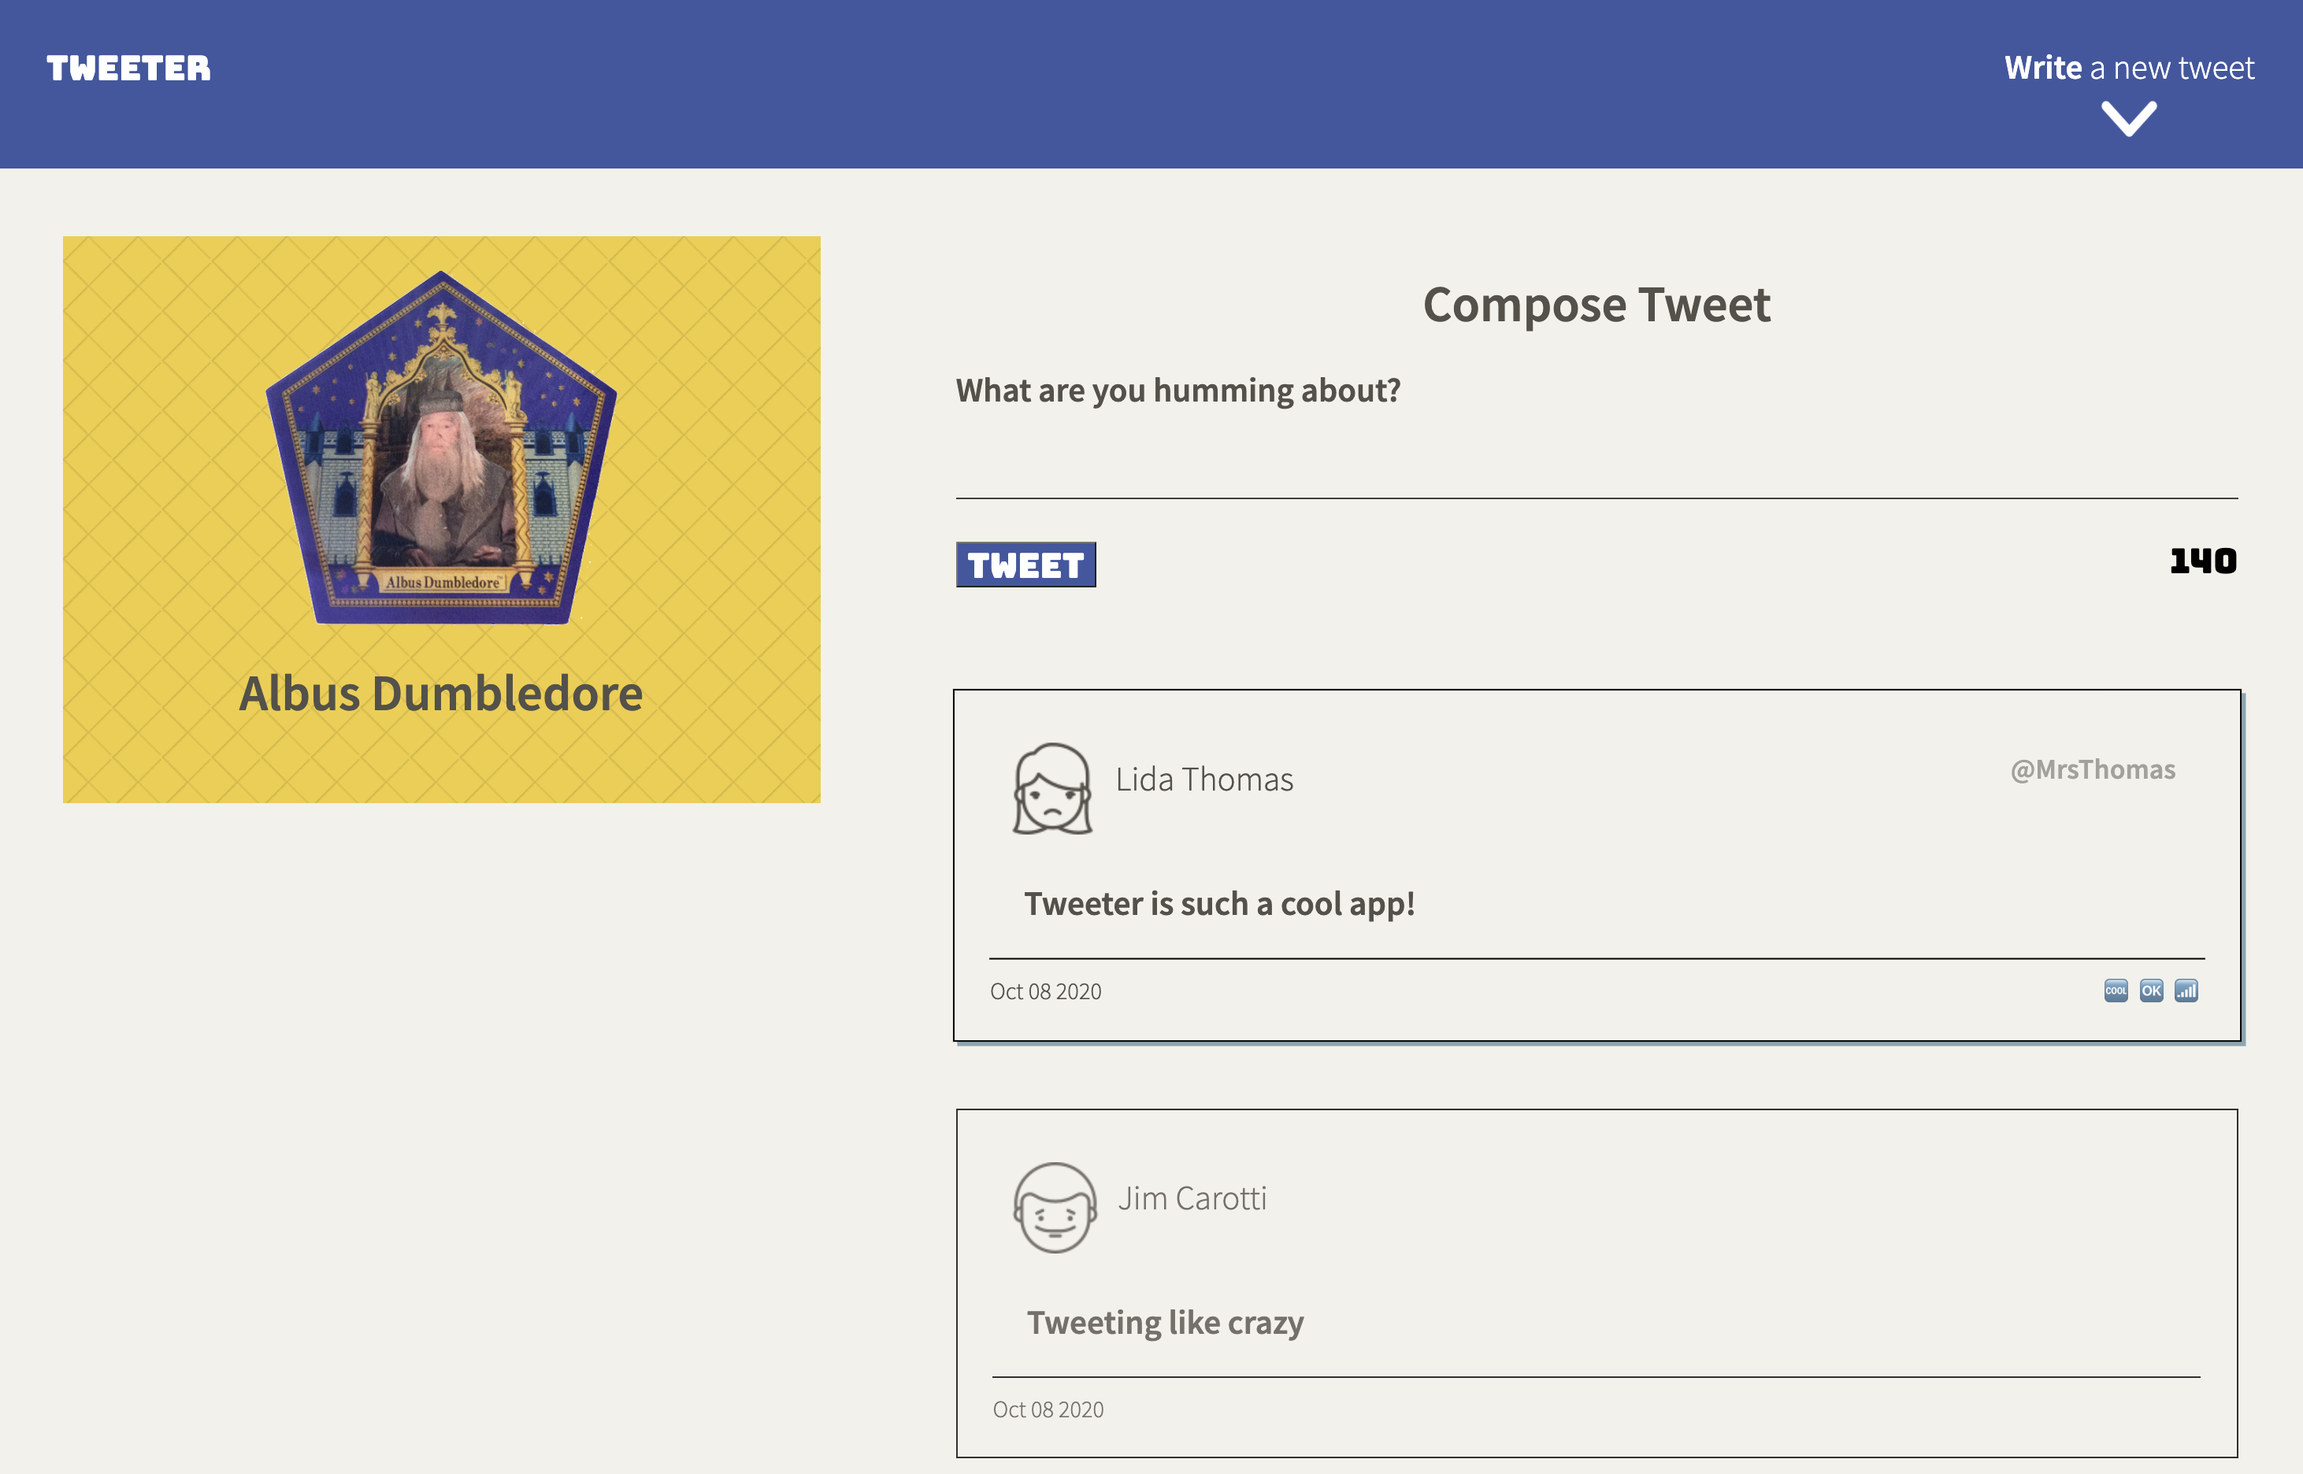
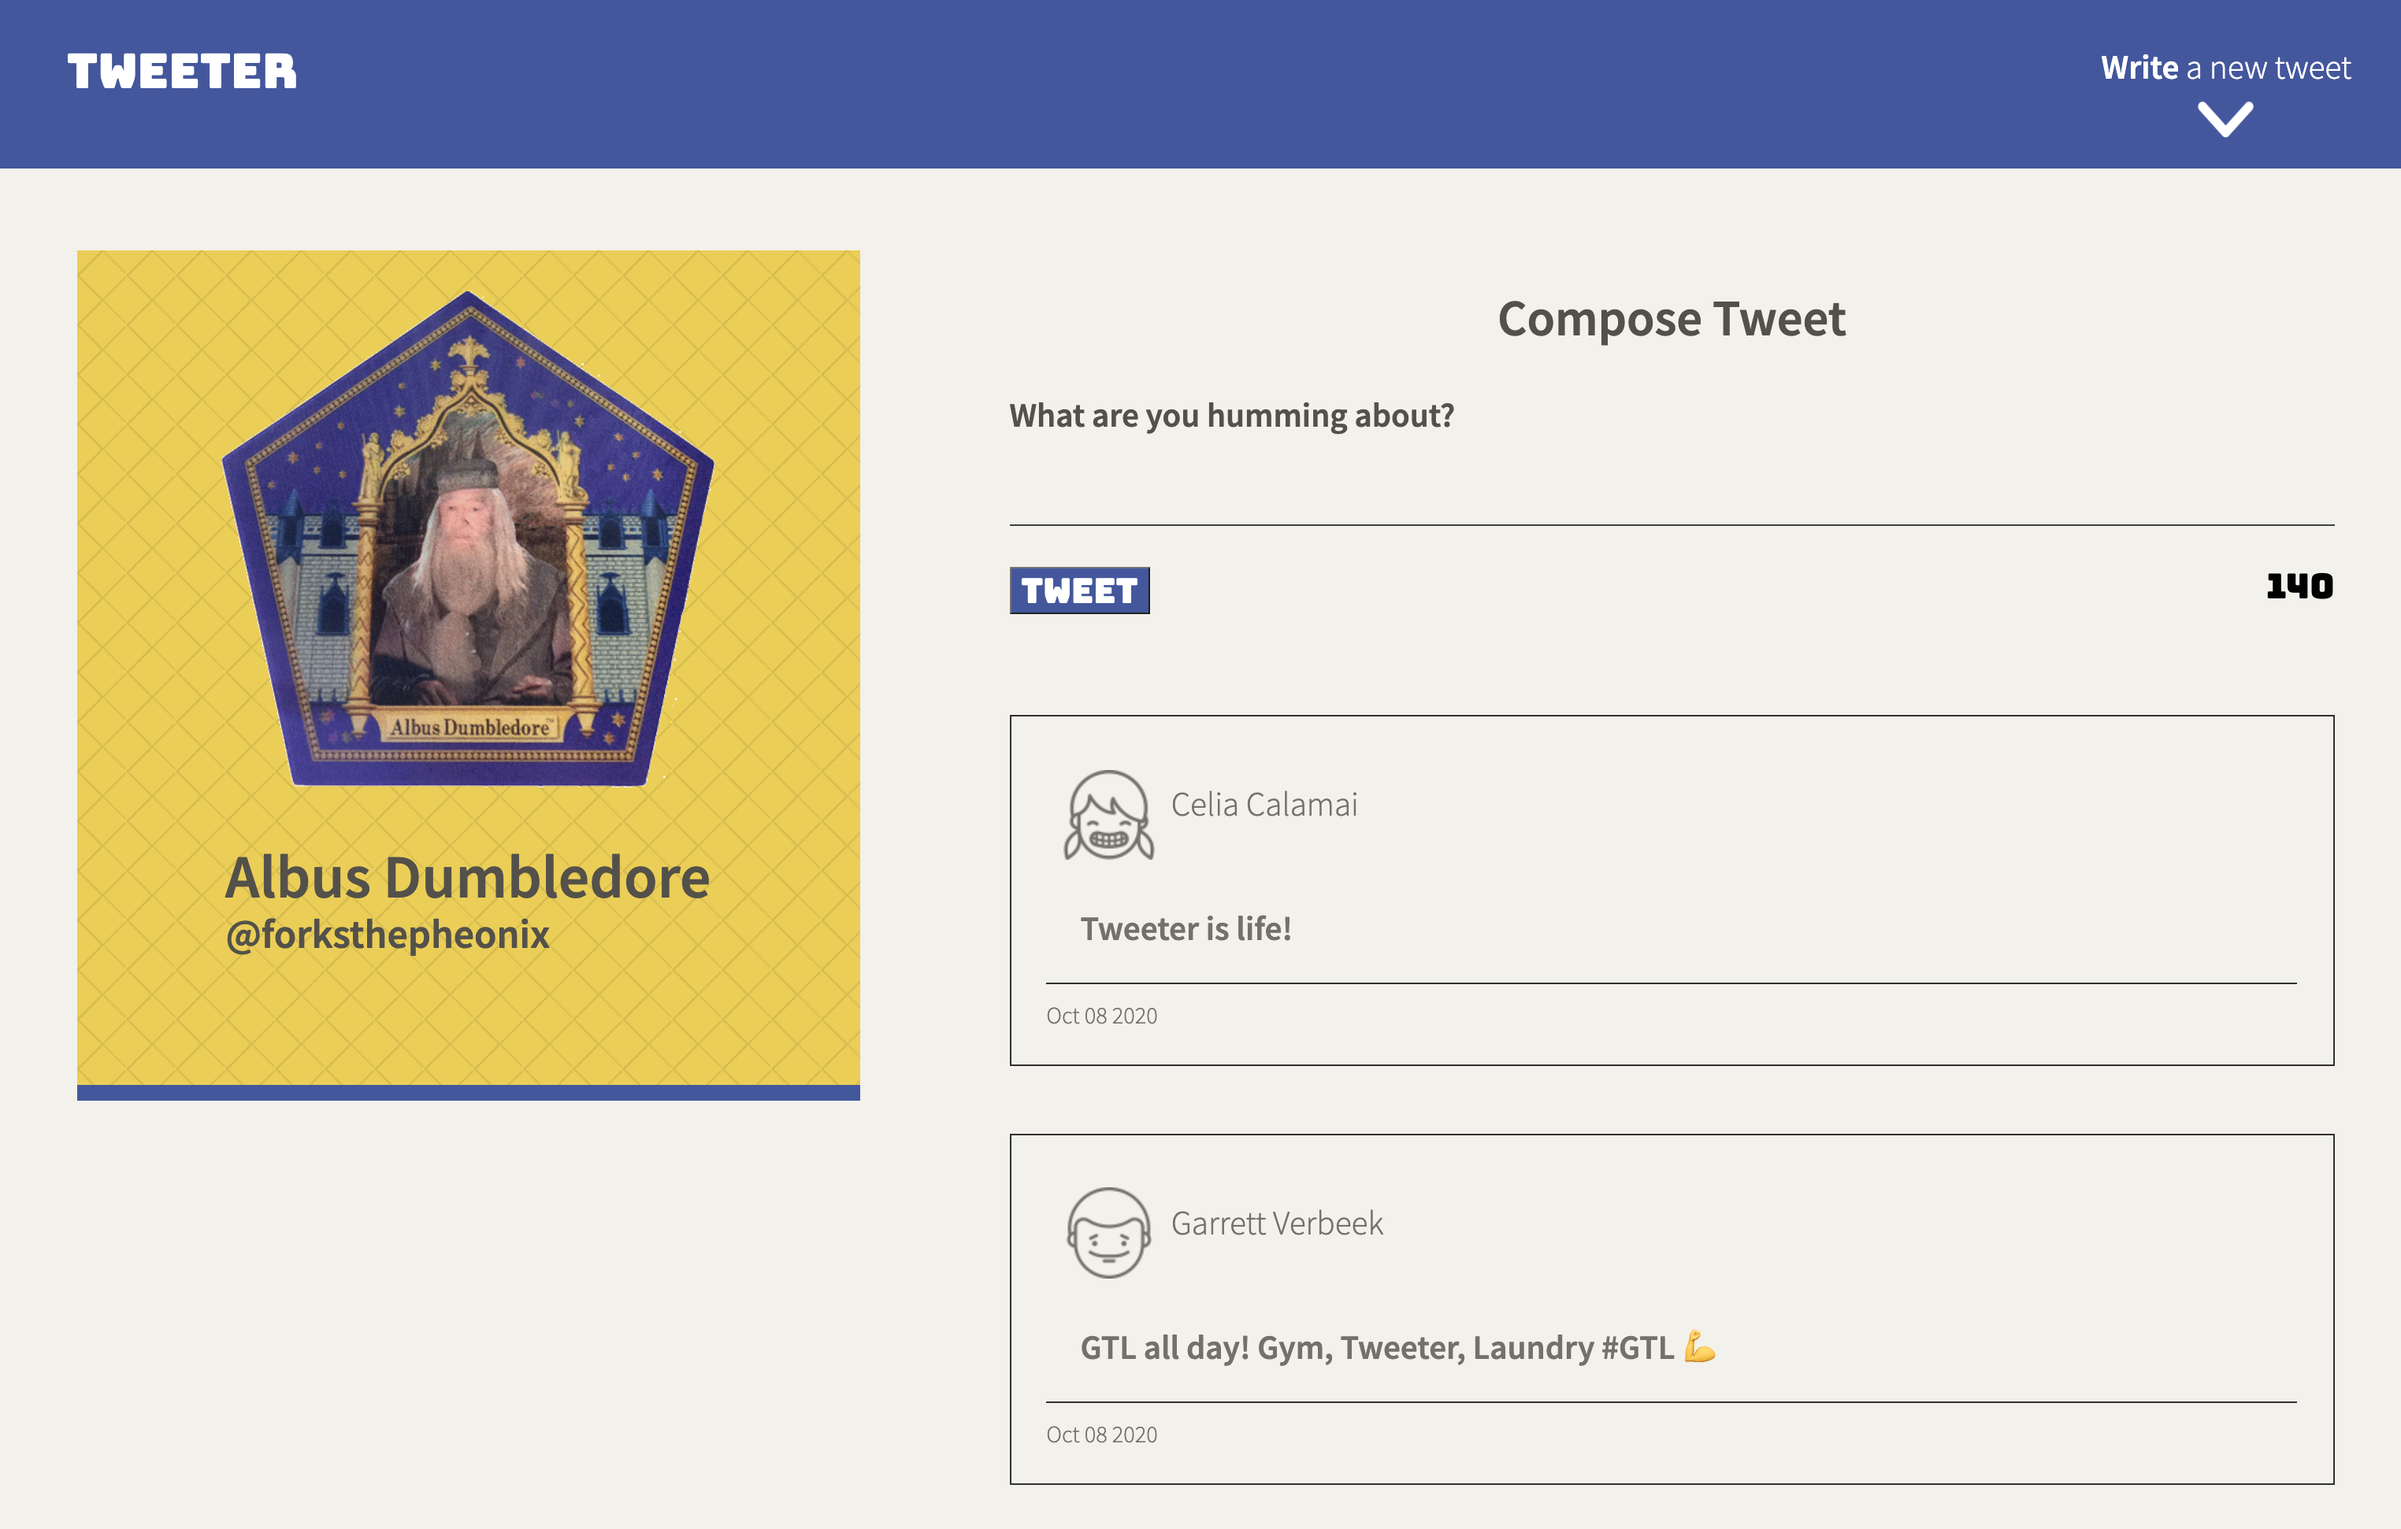
minor css changes

diff --git a/public/index.html b/public/index.html
@@ -40,7 +40,7 @@
 
     <header class="main-header">
         <div>
-            <img src="/images/Albus-Dumbledore-Front.png" height="250" width="250"> 
+            <img src="/images/Albus-Dumbledore-Front.png" height="350" width="350"> 
         </div>
         <br>
         <div>

diff --git a/public/styles/header.css b/public/styles/header.css
@@ -5,7 +5,7 @@
 }
 
 .main-header {
-  height: 450px;
+  height: 600px;
   width: 100%;
   padding: 1em;
   background-color: #F0CE37;
@@ -14,4 +14,5 @@
   display: flex;
   flex-direction: column;
   align-items: center;
+  font-size: 120%;
 }
